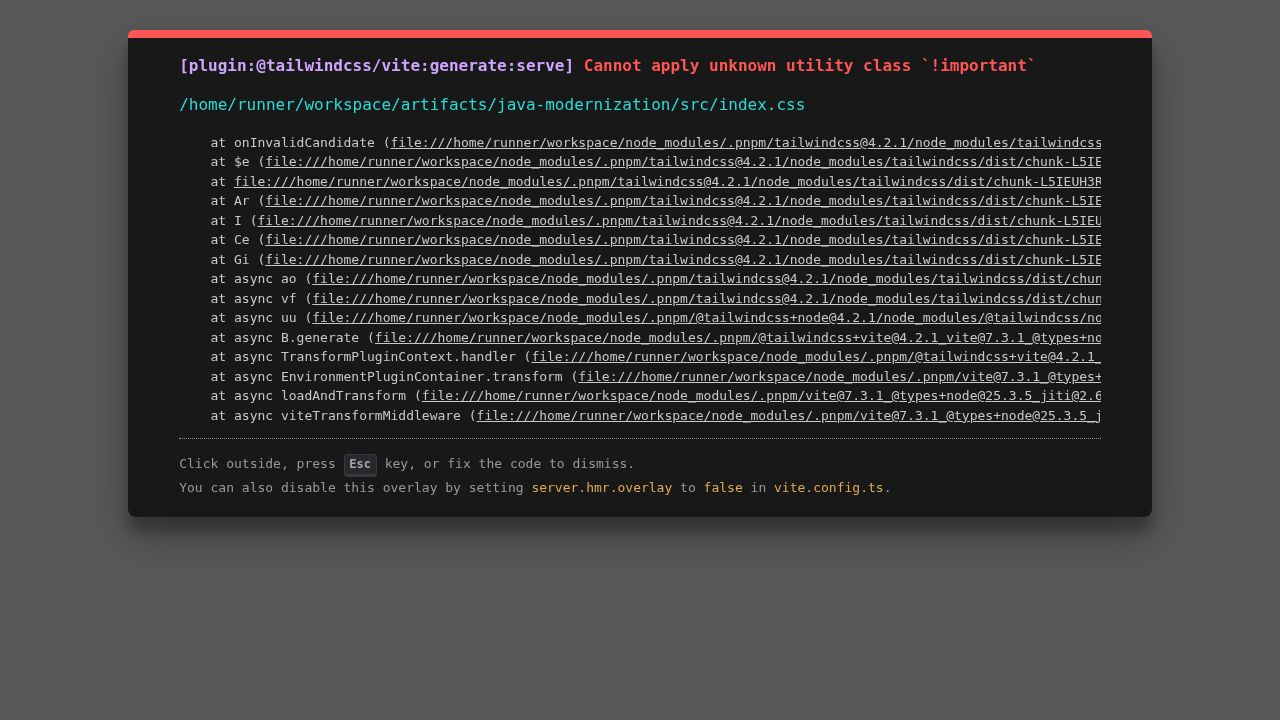
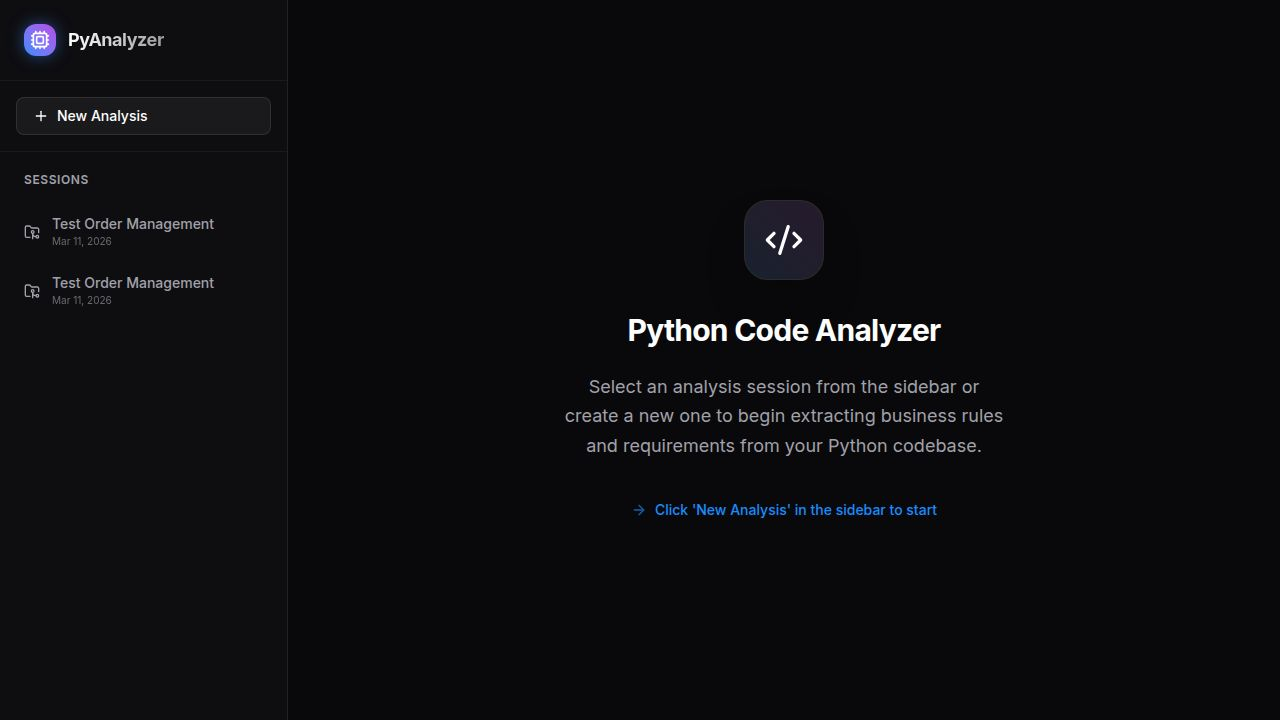
Improve GitHub API rate limit handling by adding a fallback token
Update GitHub API route to use GITHUB_TOKEN environment variable as a fallback authentication mechanism.

Replit-Commit-Author: Agent
Replit-Commit-Session-Id: 4bfe16a4-7093-472b-a0e3-7b0dd61162d5
Replit-Commit-Checkpoint-Type: full_checkpoint
Replit-Commit-Event-Id: 95e57e63-68a9-4347-8853-8dce0585db0c
Replit-Commit-Screenshot-Url: https://storage.googleapis.com/screenshot-production-us-central1/d3d928dd-7aea-4894-b9ab-304f6ae16e8e/4bfe16a4-7093-472b-a0e3-7b0dd61162d5/x04Yhru
Replit-Helium-Checkpoint-Created: true

diff --git a/artifacts/api-server/src/routes/github.ts b/artifacts/api-server/src/routes/github.ts
@@ -57,8 +57,9 @@ async function githubFetch(path: string, token?: string | null): Promise<globalT
     "X-GitHub-Api-Version": "2022-11-28",
     "User-Agent": "PythonCodeAnalyzer/1.0",
   };
-  if (token) {
-    headers["Authorization"] = `Bearer ${token}`;
+  const resolvedToken = token || process.env.GITHUB_TOKEN;
+  if (resolvedToken) {
+    headers["Authorization"] = `Bearer ${resolvedToken}`;
   }
   return fetch(`https://api.github.com${path}`, { headers });
 }